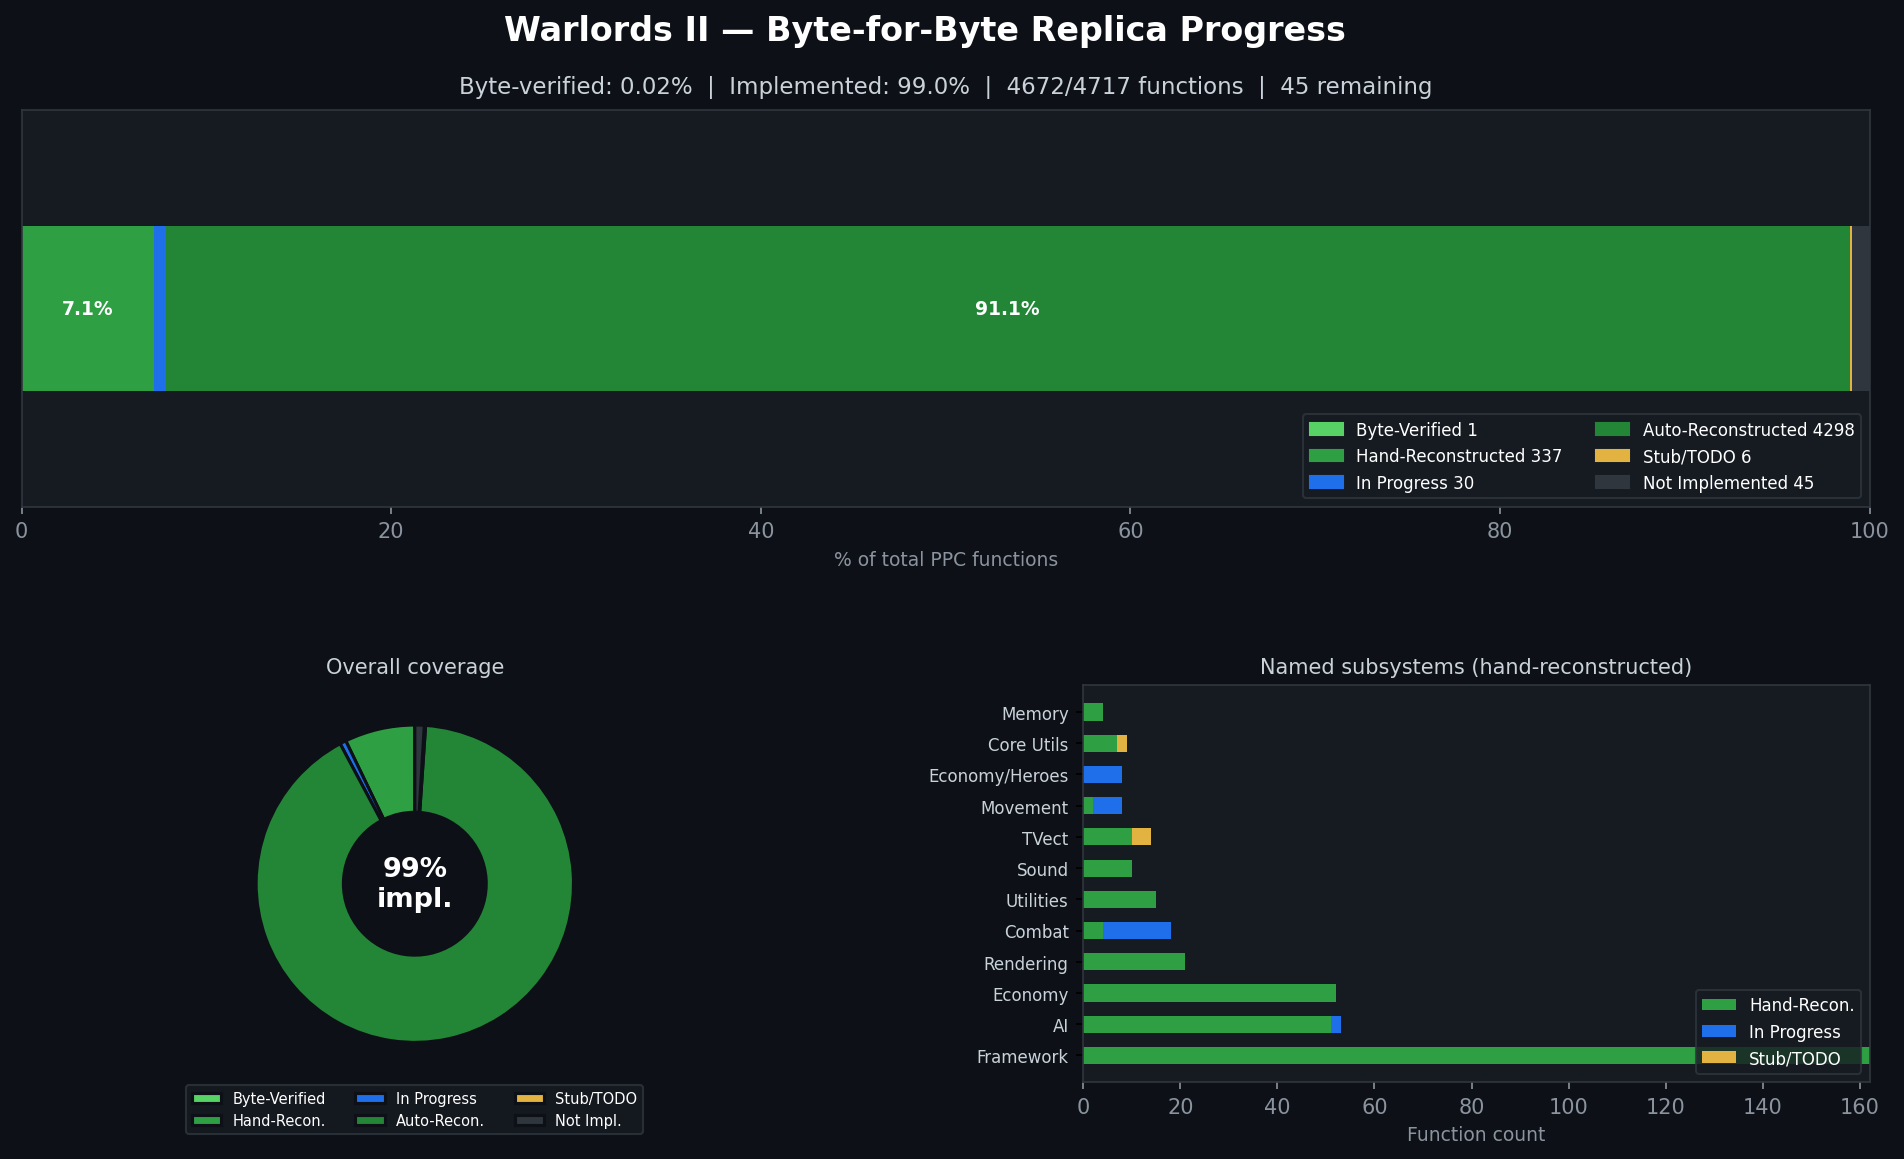
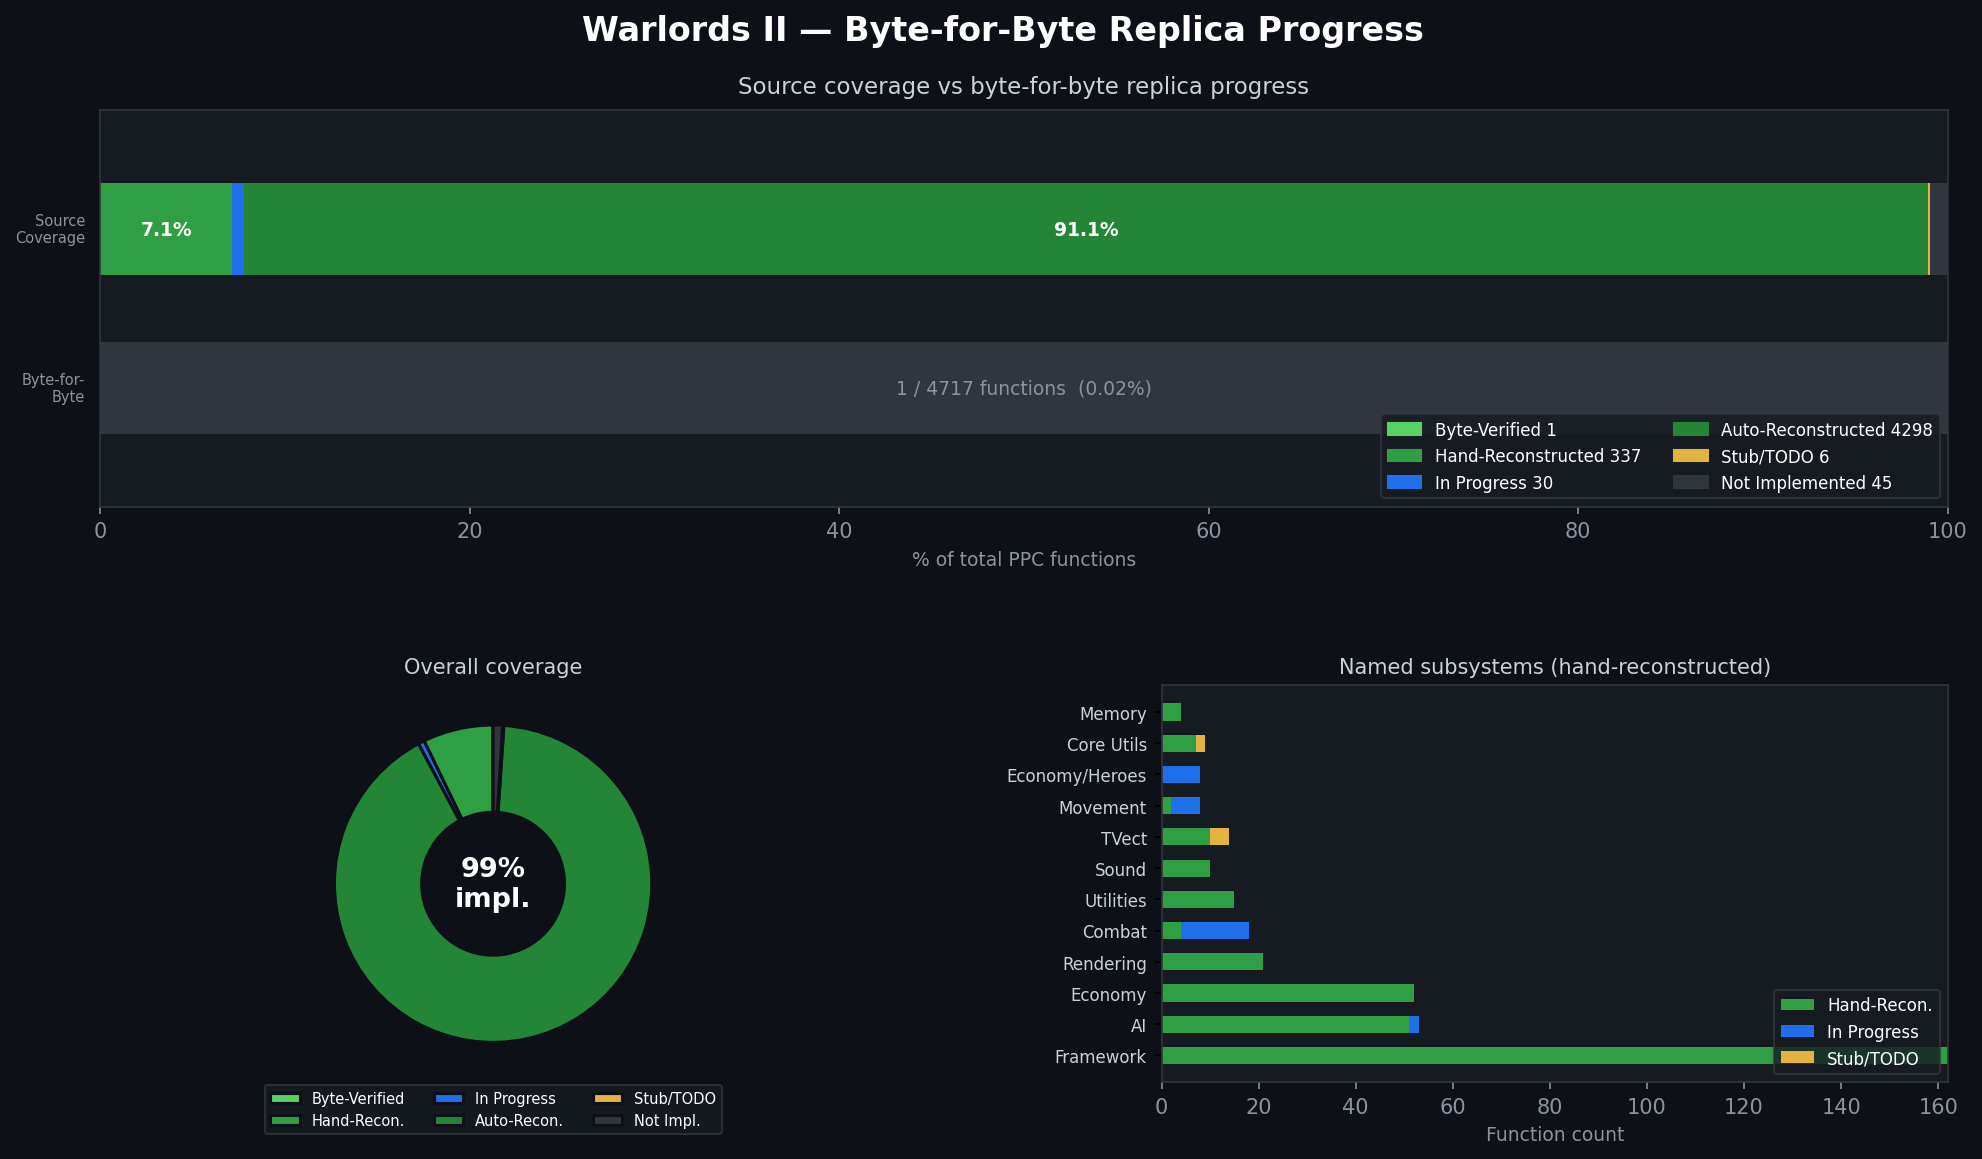
Add byte-for-byte replica bar alongside source coverage bar

diff --git a/tools/gen_progress_chart.py b/tools/gen_progress_chart.py
@@ -140,7 +140,7 @@ for ax in [ax_bar, ax_donut, ax_subs]:
     for spine in ax.spines.values():
         spine.set_edgecolor("#30363d")
 
-# ── 3a. Top: overall stacked bar ─────────────────────────────────────────────
+# ── 3a. Top: two stacked bars — coverage + byte-for-byte ─────────────────────
 bar_data = [
     (pct_verified, C_VERIFIED, f"Byte-Verified {byte_verified}"),
     (pct_done,     C_DONE,     f"Hand-Reconstructed {done_unverified}"),
@@ -150,26 +150,35 @@ bar_data = [
     (pct_missing,  C_MISSING,  f"Not Implemented {total_missing}"),
 ]
 
+# Row 0 (y=0.3): source coverage bar
 left = 0
 for pct, color, label in bar_data:
     if pct > 0:
-        ax_bar.barh(0, pct, left=left, color=color, height=0.5)
+        ax_bar.barh(0.3, pct, left=left, color=color, height=0.35)
         if pct > 4:
-            ax_bar.text(left + pct / 2, 0, f"{pct:.1f}%",
+            ax_bar.text(left + pct / 2, 0.3, f"{pct:.1f}%",
                         ha="center", va="center", color="white",
                         fontsize=9, fontweight="bold")
         left += pct
+ax_bar.text(-0.8, 0.3, "Source\nCoverage", ha="right", va="center",
+            color="#8b949e", fontsize=7)
+
+# Row 1 (y=-0.3): byte-for-byte replica bar
+pct_bfb_remaining = 100 - pct_verified
+ax_bar.barh(-0.3, pct_verified,       left=0,            color=C_VERIFIED, height=0.35)
+ax_bar.barh(-0.3, pct_bfb_remaining,  left=pct_verified, color=C_MISSING,  height=0.35)
+_verified_str = f"{pct_verified:.2f}%" if pct_verified < 1 else f"{pct_verified:.1f}%"
+ax_bar.text(pct_verified + pct_bfb_remaining / 2, -0.3,
+            f"{byte_verified} / {total_ppc} functions  ({_verified_str})",
+            ha="center", va="center", color="#8b949e", fontsize=9)
+ax_bar.text(-0.8, -0.3, "Byte-for-\nByte", ha="right", va="center",
+            color="#8b949e", fontsize=7)
 
 ax_bar.set_xlim(0, 100)
-ax_bar.set_ylim(-0.6, 0.6)
+ax_bar.set_ylim(-0.75, 0.75)
 ax_bar.set_xlabel("% of total PPC functions", color="#8b949e", fontsize=9)
-_verified_str = f"{pct_verified:.2f}%" if pct_verified < 1 else f"{pct_verified:.1f}%"
-ax_bar.set_title(
-    f"Byte-verified: {_verified_str}  |  "
-    f"Implemented: {pct_total_impl:.1f}%  |  "
-    f"{total_impl}/{total_ppc} functions  |  "
-    f"{total_missing} remaining",
-    color="#c9d1d9", fontsize=11, pad=8)
+ax_bar.set_title("Source coverage vs byte-for-byte replica progress",
+                 color="#c9d1d9", fontsize=11, pad=8)
 ax_bar.set_yticks([])
 ax_bar.tick_params(axis="x", colors="#8b949e")
 
